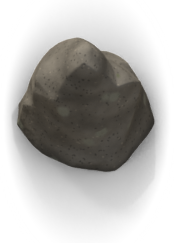
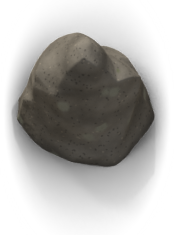
Garden art: tighter shadow on the tall stone, easier-to-see summer seed wings

diff --git a/scenes/garden/blender/branch.py b/scenes/garden/blender/branch.py
@@ -144,14 +144,14 @@ def flower(p, rng, root, objs):
 
 def samaras(p, rng, root, objs):
     """A hanging pair of maple seed wings (helicopters)."""
-    wm = bpy.data.materials.get('wing') or pbr('wing', (0.35, 0.36, 0.12), (0.55, 0.48, 0.2), rough=0.6, scale=30, grime=0.2)
+    wm = bpy.data.materials.get('wing') or pbr('wing', (0.62, 0.52, 0.22), (0.8, 0.66, 0.3), rough=0.6, scale=30, grime=0.15)
     pr = bpy.data.objects.new('samara', None)
     pr.parent = root
     bpy.context.scene.collection.objects.link(pr)
     pr.location = Vector(p + np.array([0, -0.12, 0.05]))
     pr.rotation_euler = (0.3, rng.uniform(-0.4, 0.4), rng.uniform(-0.3, 0.3))
     for sgn in (-1, 1):
-        o = leaf_mesh('petal', int(rng.integers(1000)), 0.13)
+        o = leaf_mesh('petal', int(rng.integers(1000)), 0.18)  # 0.13 vanished at screen size
         o.data.materials.append(wm)
         o.parent = pr
         o.scale = (0.45, 1.0, 1.0)

diff --git a/scenes/garden/blender/stones.py b/scenes/garden/blender/stones.py
@@ -66,7 +66,7 @@ def stones(k):
     rig()
     seed(k)
     objs = stone_prop(k)
-    ground(14, soft=2.5, power=1000)
+    ground(14, soft=1.4 if k == 2 else 2.5, power=750 if k == 2 else 1000)  # the tall stone threw a wide dark halo
     fp = footprint(objs)
     place(objs, margin=0.25)
     ent = sprite(f'stone-{k}', {'base': ((fp[0] + fp[1]) / 2, (fp[2] + fp[3]) / 2, 0)})
